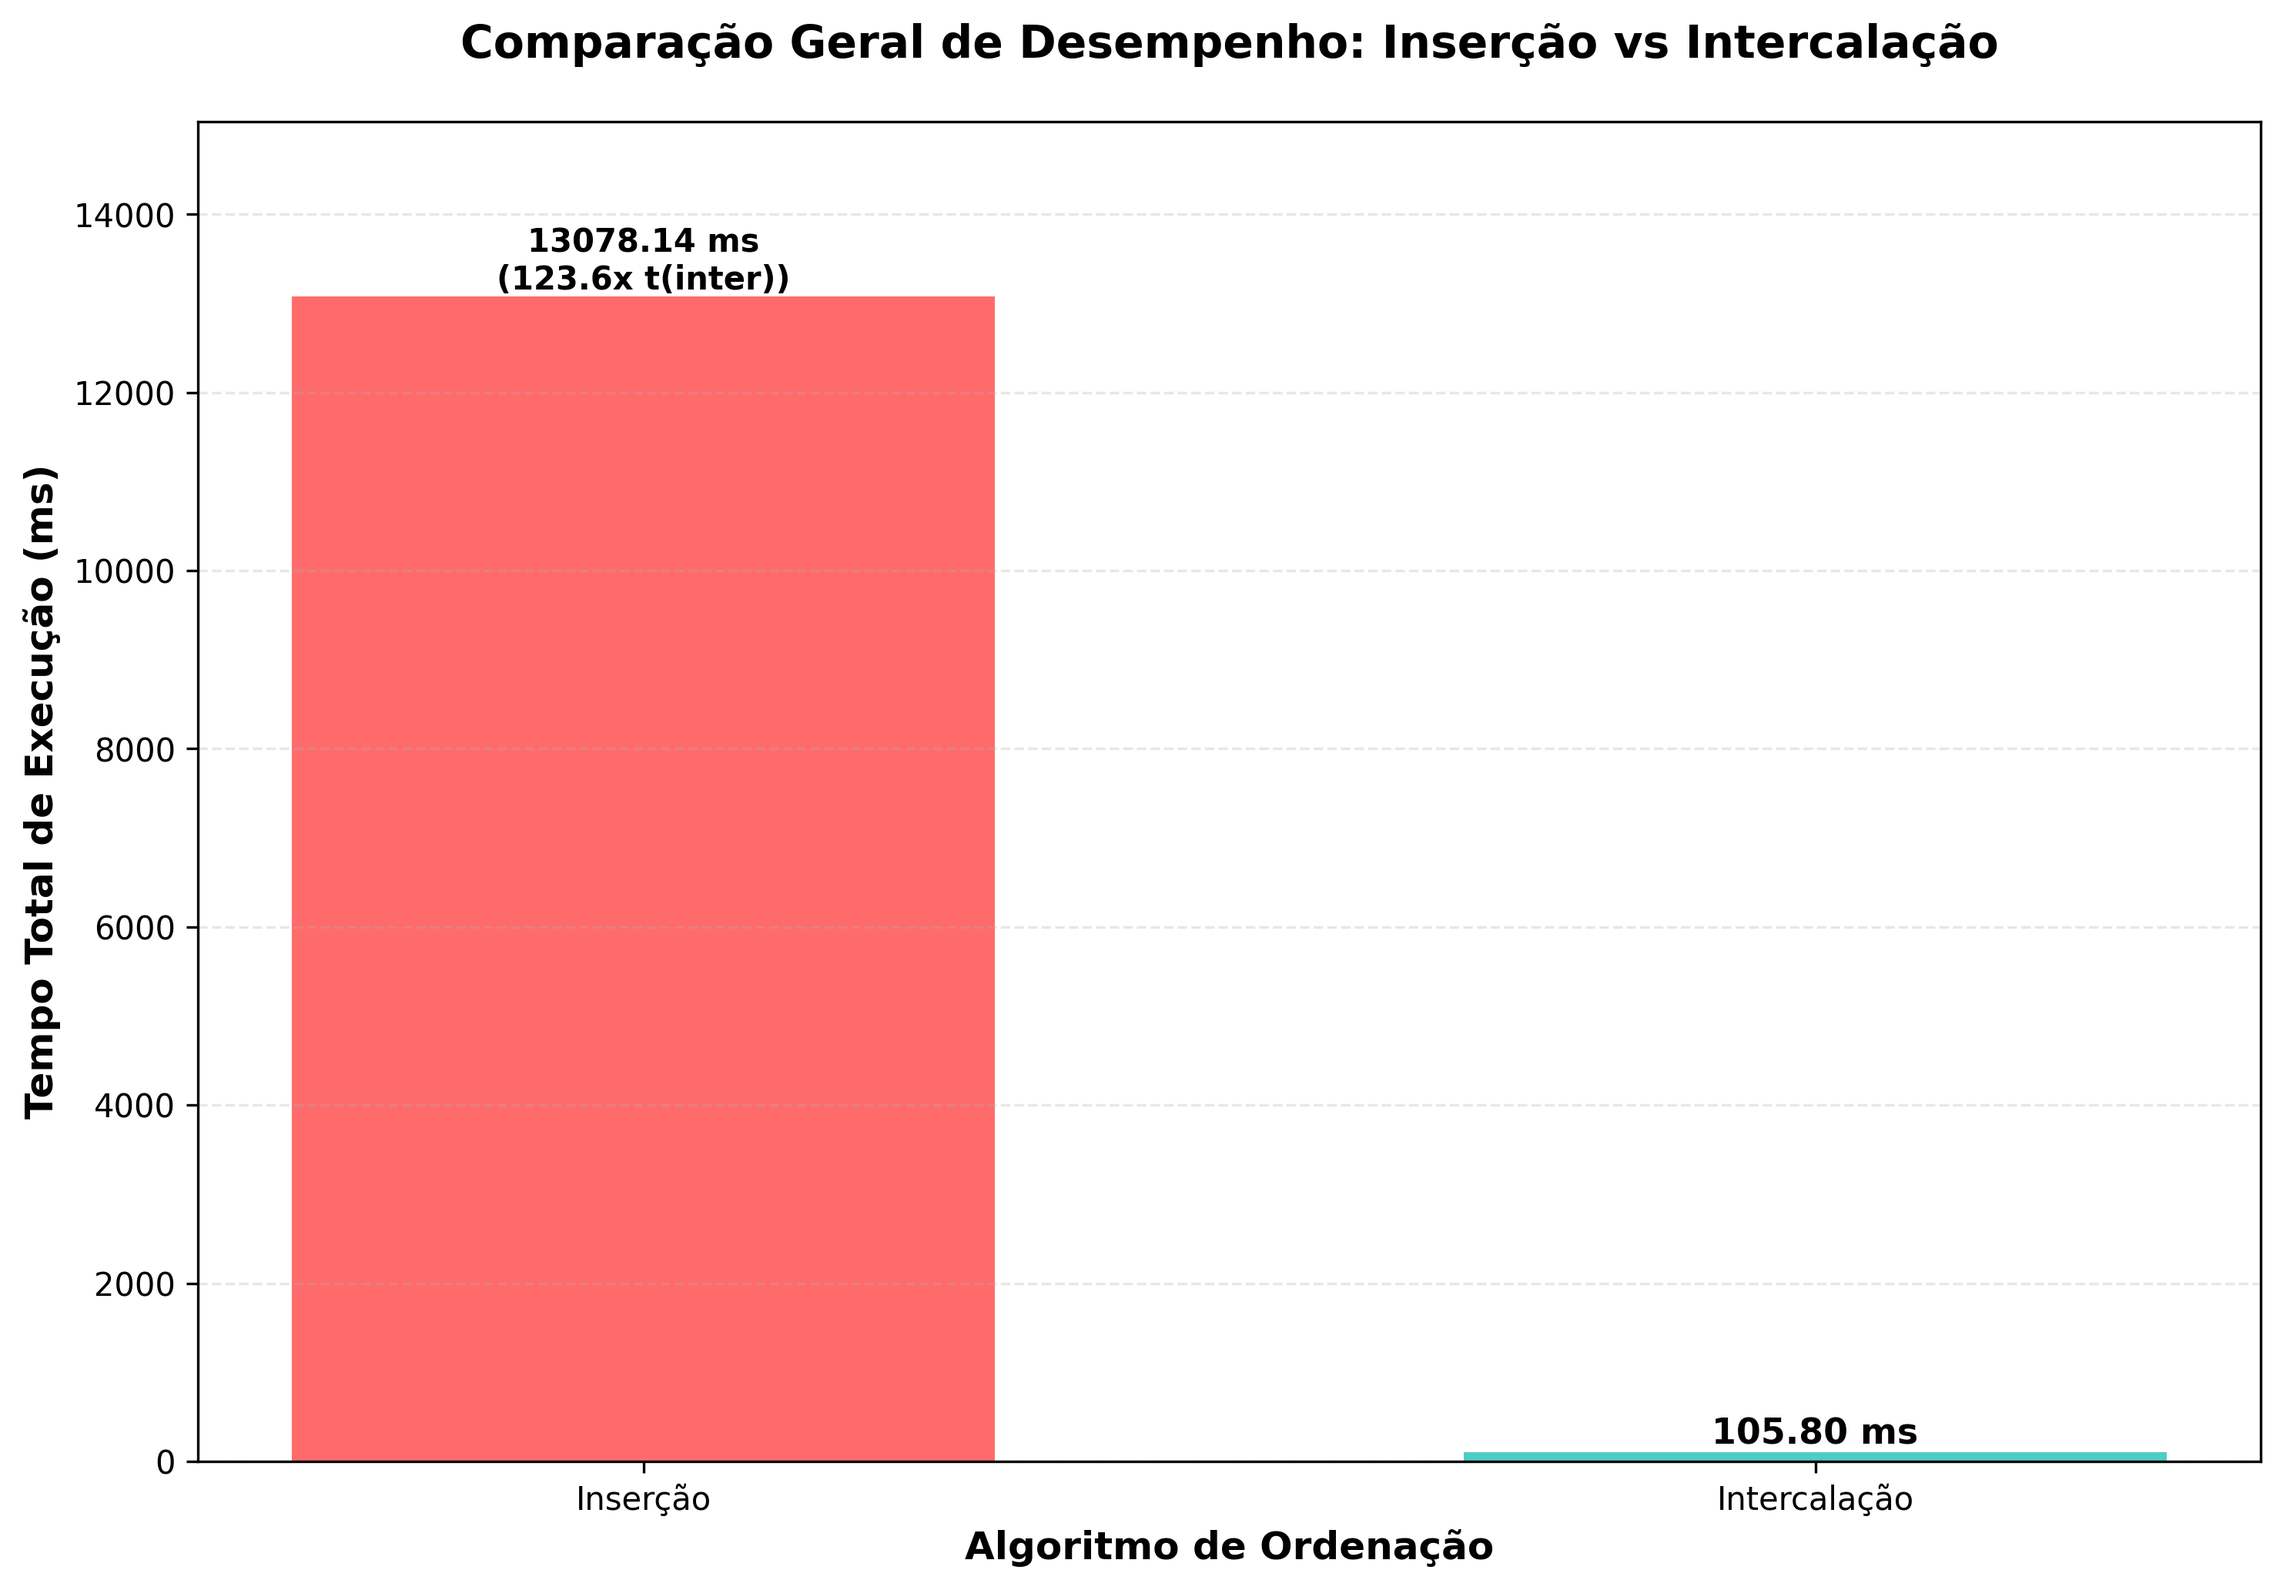
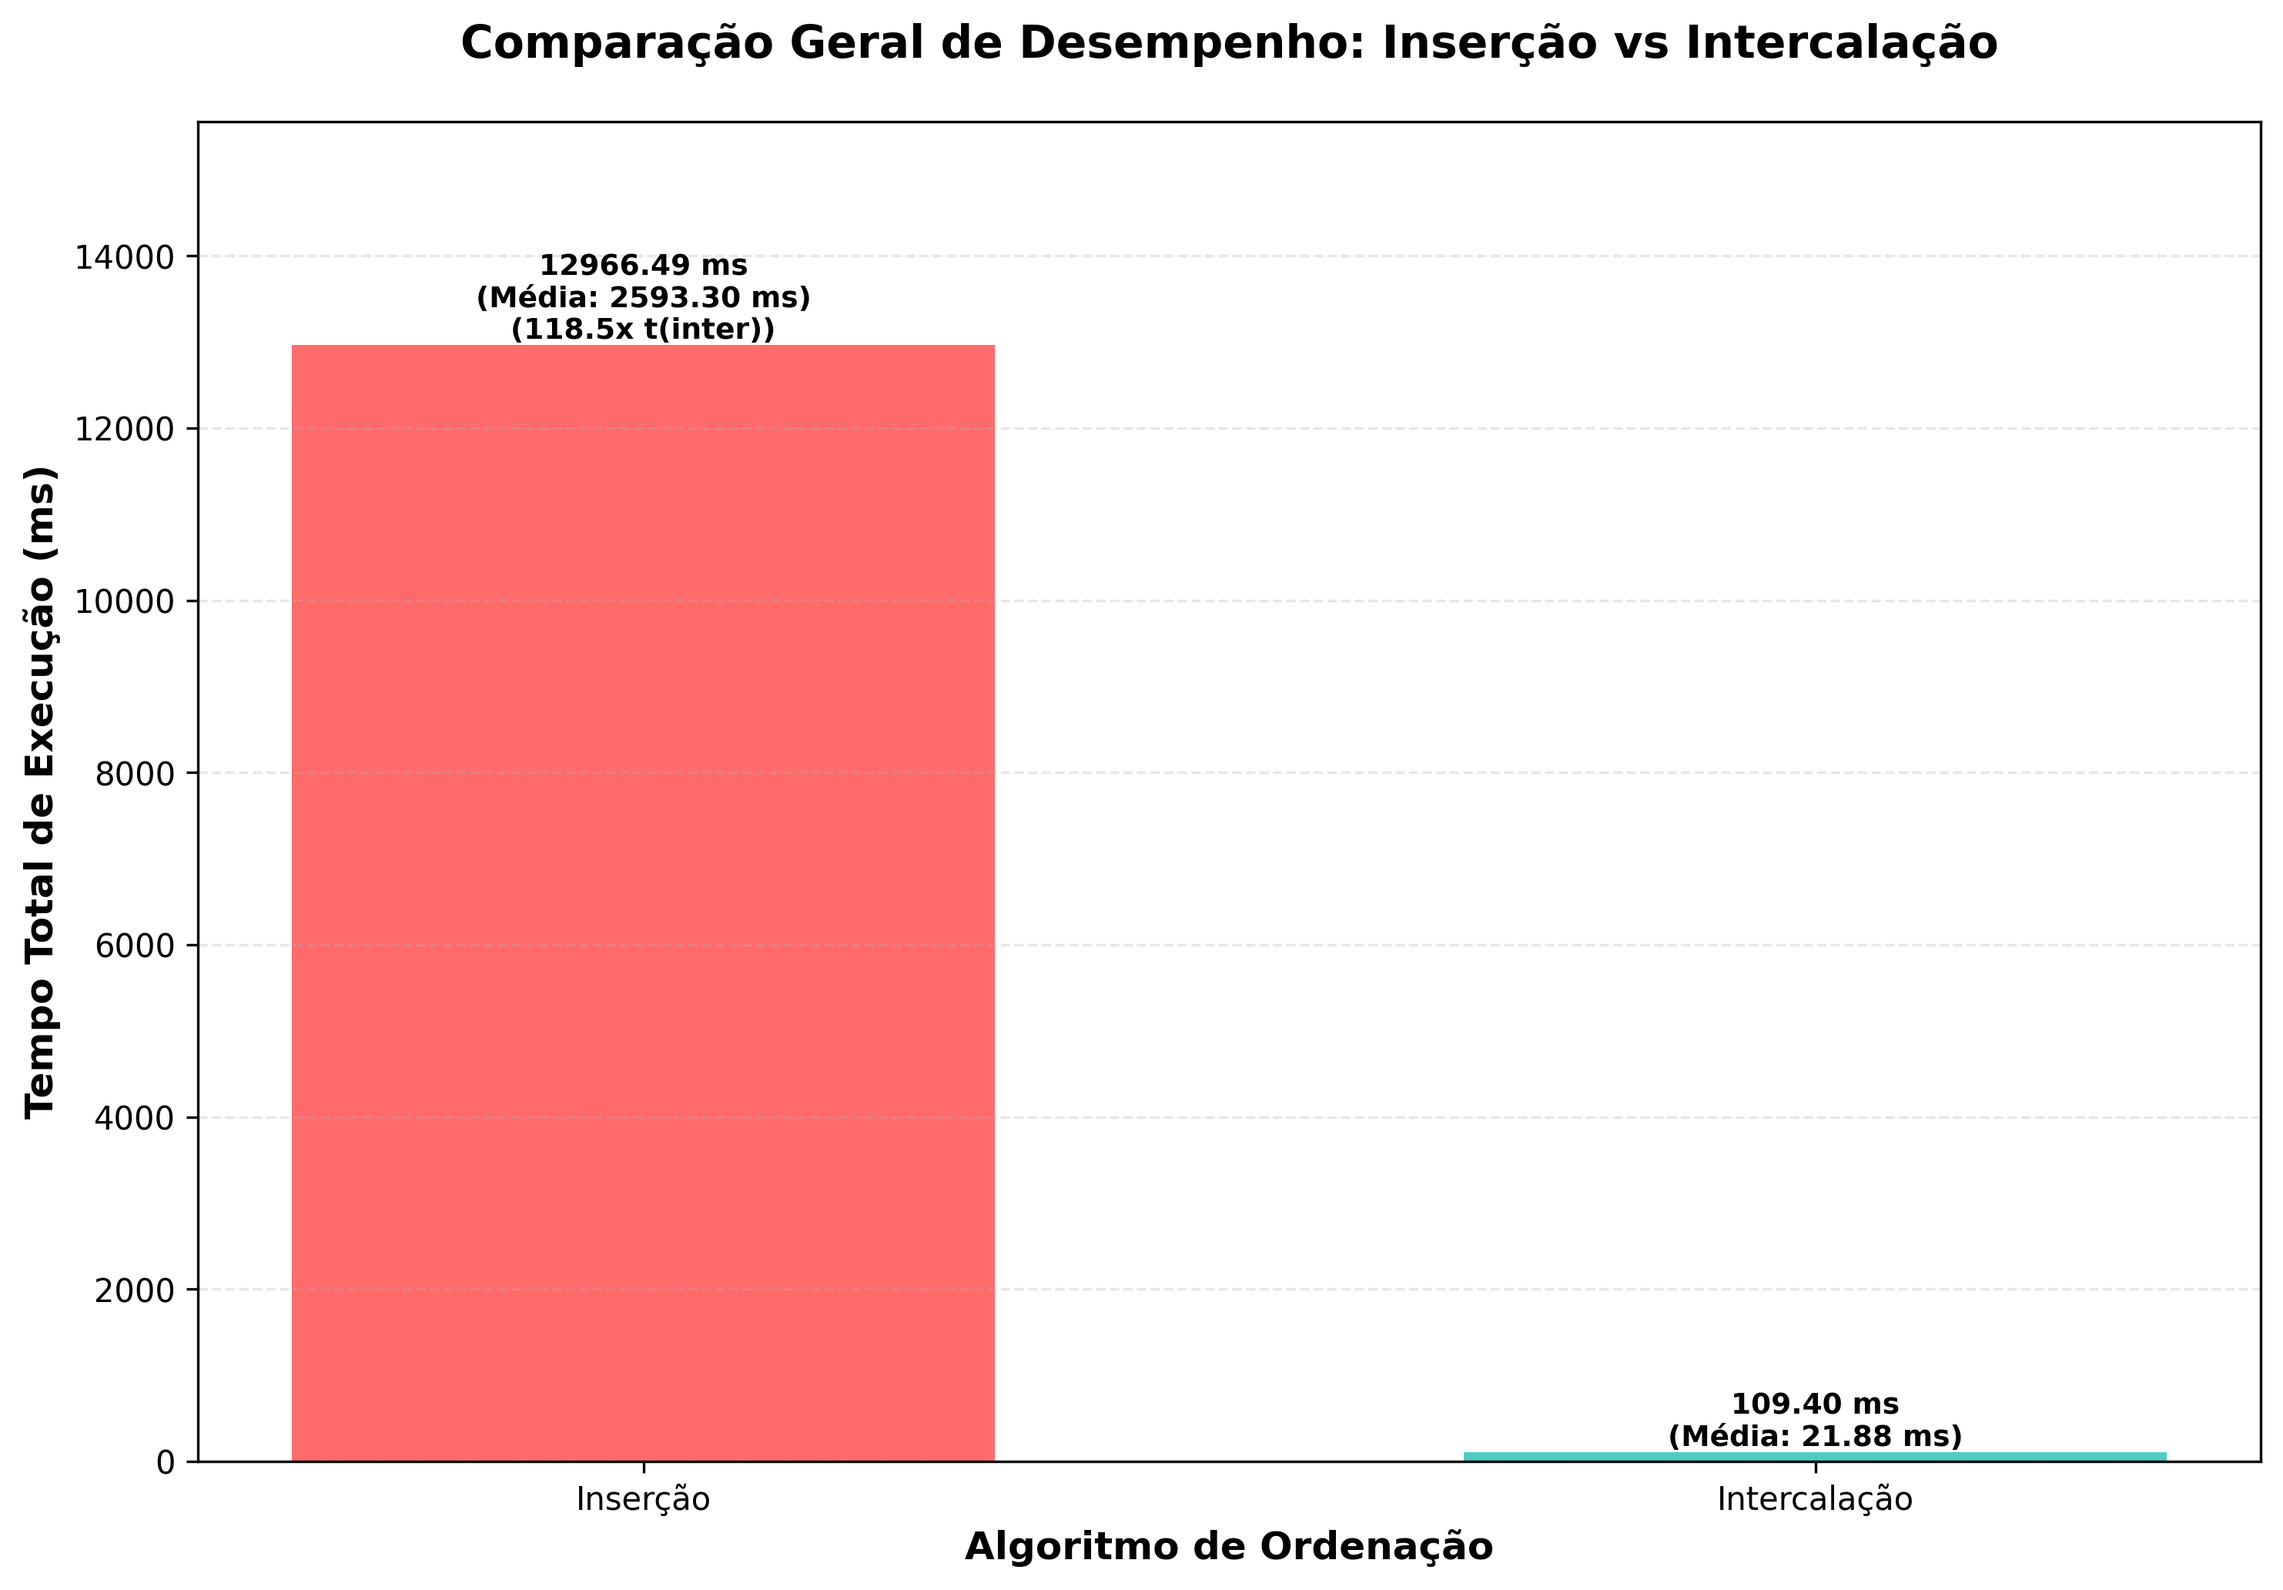
Reorganização dos Projetos

diff --git a/projeto_3/projeto_3.py b/projeto_3/projeto_3.py
@@ -287,28 +287,30 @@ def main():
     plot.close()
     print(f"   Gráfico gerado: {nome_grafico1}")
     
-    # Gráfico 2: Comparação geral (tempo total)
+    # Gráfico 2: Comparação geral (tempo total e média)
     plot.figure(figsize=(10, 7))
     categorias = ['Inserção', 'Intercalação']
     tempos_totais = [tempo_total_insercao * 1000, tempo_total_intercalacao * 1000]  # Converter para ms
+    tempo_medio_insercao_ms = tempo_medio_insercao * 1000
+    tempo_medio_intercalacao_ms = tempo_medio_intercalacao * 1000
     
     barras = plot.bar(categorias, tempos_totais, color=['#FF6B6B', '#4ECDC4'], width=0.6)
     
-    # Adicionar valores nas barras com fator de comparação
+    # Adicionar valores nas barras com tempo total, média e fator de comparação
     fator_geral = (tempo_total_insercao * 1000) / (tempo_total_intercalacao * 1000)
     for i, barra in enumerate(barras):
         altura = barra.get_height()
         if i == 0:  # Inserção
             plot.text(barra.get_x() + barra.get_width()/2., altura,
-                     f'{altura:.2f} ms\n({fator_geral:.1f}x t(inter))',
-                     ha='center', va='bottom', fontsize=10, fontweight='bold')
+                     f'{altura:.2f} ms\n(Média: {tempo_medio_insercao_ms:.2f} ms)\n({fator_geral:.1f}x t(inter))',
+                     ha='center', va='bottom', fontsize=9, fontweight='bold')
         else:  # Intercalação
             plot.text(barra.get_x() + barra.get_width()/2., altura,
-                     f'{altura:.2f} ms',
-                     ha='center', va='bottom', fontsize=11, fontweight='bold')
+                     f'{altura:.2f} ms\n(Média: {tempo_medio_intercalacao_ms:.2f} ms)',
+                     ha='center', va='bottom', fontsize=9, fontweight='bold')
     
     # Ajustar limites do eixo Y para dar mais espaço acima das barras
-    y_max = max(tempos_totais) * 1.15
+    y_max = max(tempos_totais) * 1.2  # Aumentar espaço para acomodar 3 linhas de texto
     plot.ylim(0, y_max)
     
     plot.xlabel('Algoritmo de Ordenação', fontsize=12, fontweight='bold')
@@ -322,43 +324,6 @@ def main():
     plot.savefig(nome_grafico2, dpi=300, bbox_inches='tight')
     plot.close()
     print(f"   Gráfico gerado: {nome_grafico2}")
-    
-    # Gráfico 3: Tempo médio por critério
-    plot.figure(figsize=(10, 7))
-    tempo_medio_insercao_ms = tempo_medio_insercao * 1000
-    tempo_medio_intercalacao_ms = tempo_medio_intercalacao * 1000
-    
-    barras = plot.bar(categorias, [tempo_medio_insercao_ms, tempo_medio_intercalacao_ms], 
-                     color=['#FF6B6B', '#4ECDC4'], width=0.6)
-    
-    # Adicionar valores nas barras com fator de comparação
-    fator_medio = tempo_medio_insercao_ms / tempo_medio_intercalacao_ms
-    for i, barra in enumerate(barras):
-        altura = barra.get_height()
-        if i == 0:  # Inserção
-            plot.text(barra.get_x() + barra.get_width()/2., altura,
-                     f'{altura:.2f} ms\n({fator_medio:.1f}x t(inter))',
-                     ha='center', va='bottom', fontsize=10, fontweight='bold')
-        else:  # Intercalação
-            plot.text(barra.get_x() + barra.get_width()/2., altura,
-                     f'{altura:.2f} ms',
-                     ha='center', va='bottom', fontsize=11, fontweight='bold')
-    
-    # Ajustar limites do eixo Y para dar mais espaço acima das barras
-    y_max = max(tempo_medio_insercao_ms, tempo_medio_intercalacao_ms) * 1.15
-    plot.ylim(0, y_max)
-    
-    plot.xlabel('Algoritmo de Ordenação', fontsize=12, fontweight='bold')
-    plot.ylabel('Tempo Médio por Critério (ms)', fontsize=12, fontweight='bold')
-    plot.title('Tempo Médio de Execução por Critério de Ordenação', 
-              fontsize=14, fontweight='bold', pad=20)
-    plot.grid(axis='y', alpha=0.3, linestyle='--')
-    plot.tight_layout()
-    
-    nome_grafico3 = 'projeto_3/projeto_3_comparacao_media.png'
-    plot.savefig(nome_grafico3, dpi=300, bbox_inches='tight')
-    plot.close()
-    print(f"   Gráfico gerado: {nome_grafico3}")
     
     print("\n" + "_"*60)
     print("EXECUÇÃO CONCLUÍDA COM SUCESSO!")
